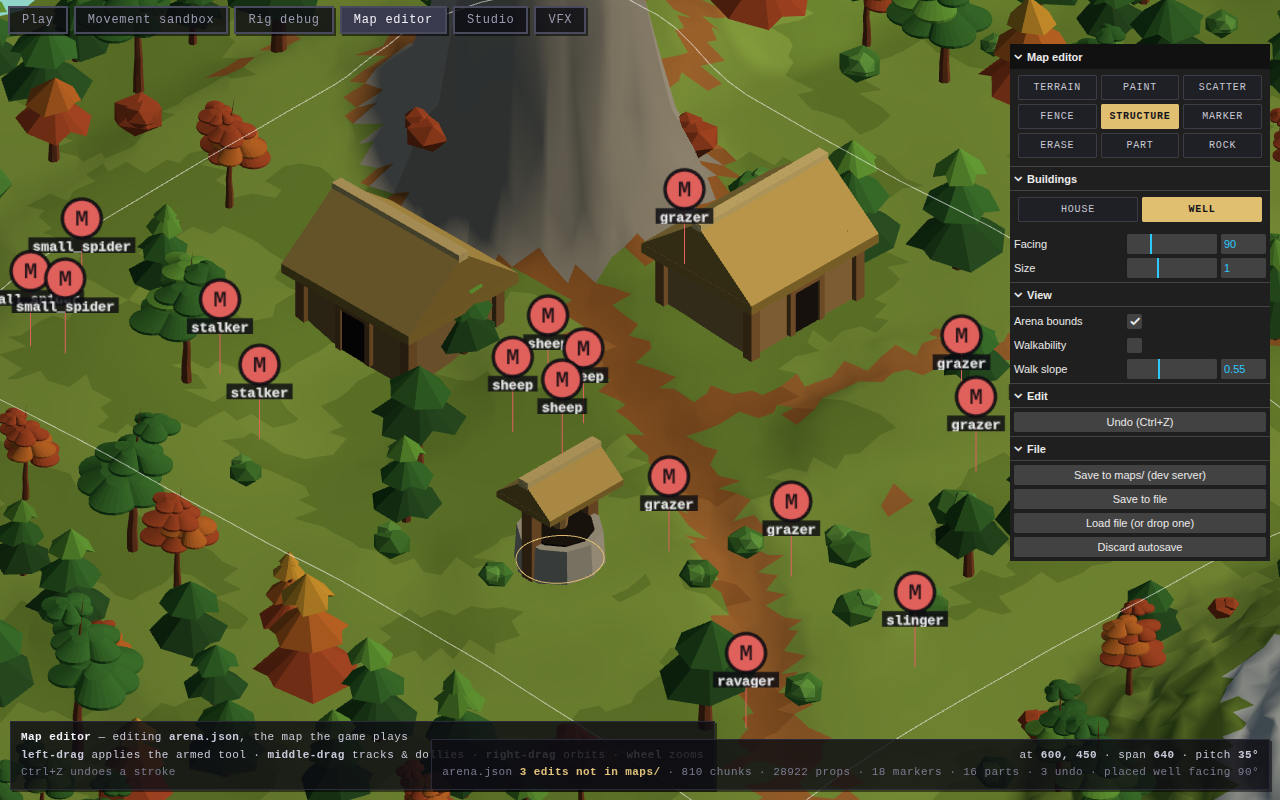
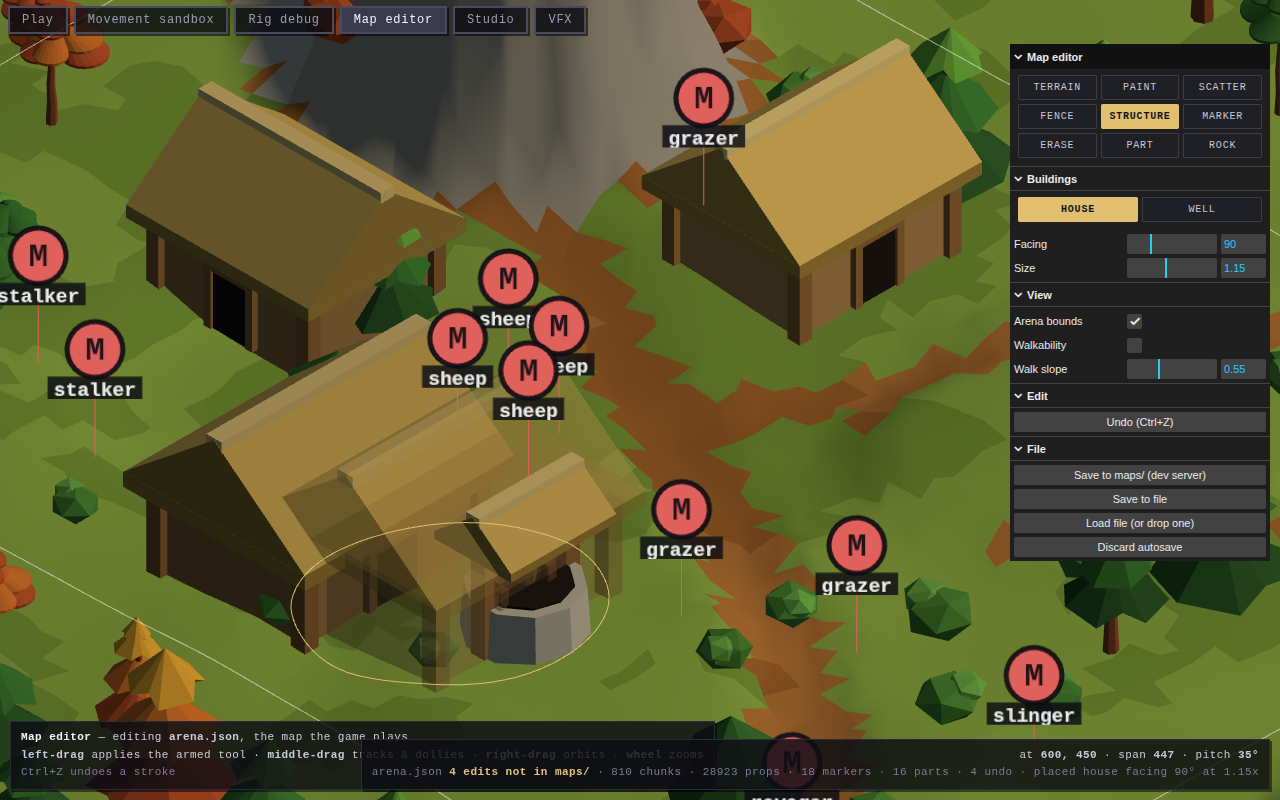
Read the preview and the drag out of the running editor
Both halves live where a saved file cannot see them: a preview is entirely
scene graph, and a drag's size only exists while the button is down. A tool
that ignored the drag and sized the building at the release would leave exactly
the same document as one that grew it under the cursor the whole way.

Two things in the probe were learned by getting them wrong. Every wait is a
poll now, because a building lands on the release and this environment paints
the editor at about five frames a second -- waited out with a constant, it read
the status line before the placement, moved the facing slider before it, and
reported three huts placed at one facing as a broken slider. And the no-ground
case is staged at the corner of a zoomed-out view: the middle stays meshed
however far you zoom, so hovering it reported a working refusal as a preview
that would not go away. Checked as a round trip, since a hidden ghost is also
what a broken ghost looks like.

diff --git a/scripts/probe-structures.ts b/scripts/probe-structures.ts
@@ -10,9 +10,15 @@
  * cannot fail a typecheck and cannot fail a headless test.
  *
  * So this drives the shipped build: opens the tab, arms the tool, presses on the
- * ground three times, and checks the *file that came out*. The file is the
+ * ground, drags one out, and checks the *file that came out*. The file is the
  * deliverable -- a building the editor draws and does not save is exactly the
  * bug spec 176 turned out to be.
+ *
+ * Spec 223 adds the half a file cannot answer. A preview lives entirely in the
+ * scene graph and a drag's size is only visible while the button is down, so
+ * both are read off `data-ghost` mid-gesture: a tool that ignored the drag and
+ * sized the building at the release would leave exactly the same document as
+ * one that grew it under the cursor the whole way.
  *
  *   npm run build && npx tsx scripts/probe-structures.ts
  *
@@ -71,6 +77,82 @@ async function waitForServer(url: string, timeoutMs = 30_000): Promise<void> {
 }
 
 const readout = async (page: Page): Promise<string> => (await page.textContent('body')) ?? '';
+
+/**
+ * What the ghost has on the scene graph, off `data-ghost` (spec 223).
+ *
+ * Published from what is *attached and visible* rather than from what the frame
+ * last asked for, so a preview built and hung on nothing, or one left up after
+ * the tool was disarmed, reads as wrong here.
+ */
+async function ghost(page: Page): Promise<string> {
+  return (await page.getAttribute('[data-ghost]', 'data-ghost')) ?? '(no readout)';
+}
+
+const ghostScale = async (page: Page): Promise<number> =>
+  Number(/scale:([\d.]+)/.exec(await ghost(page))?.[1] ?? Number.NaN);
+
+/** How many props the editor says the map holds. The one unambiguous signal
+ *  that a placement has actually been processed. */
+async function propCount(page: Page): Promise<number> {
+  return Number(/([\d,]+) props/.exec(await readout(page))?.[1]?.replace(/,/g, '') ?? Number.NaN);
+}
+
+/**
+ * Wait until the editor has actually taken the gesture.
+ *
+ * A **poll**, never a fixed wait, and the reason is measured rather than
+ * cautious: this environment paints the editor at about five frames a second
+ * under software GL, and a building now lands on the *release* (spec 223) --
+ * so half a second after the button comes up the frame that places it may not
+ * have run. Waited out with a constant, the first cut of this probe read the
+ * status line before the placement, set the facing slider before it, and
+ * reported three huts placed at one facing as a broken facing slider.
+ */
+/** Spin the wheel over the canvas, and let the ground catch up. */
+async function zoom(page: Page, notches: number, delta: number): Promise<void> {
+  await page.mouse.move(500, 400);
+  for (let i = 0; i < notches; i++) {
+    await page.mouse.wheel(0, delta);
+    await page.waitForTimeout(120);
+  }
+  await page.waitForTimeout(2500);
+}
+
+/**
+ * Poll `data-ghost` over a point until it says what is wanted, or give up.
+ *
+ * Which point matters, and the first cut of this got it wrong: it hovered the
+ * middle of the view, where ground stays meshed however far you zoom out --
+ * the keep window grows around what was already there -- and reported a
+ * working refusal as a preview that would not go away. Unmeshed ground is at
+ * the *corners*, which is where a zoomed-out view has ground it has not caught
+ * up with yet.
+ */
+async function ghostBecomes(page: Page, want: 'hidden' | 'drawn', at: readonly [number, number]): Promise<boolean> {
+  for (let i = 0; i < 60; i++) {
+    // Nudged by a pixel each time, because the preview is placed from a pointer
+    // event as well as from the frame: parked perfectly still, a poll can read
+    // the same stale frame sixty times.
+    await page.mouse.move(at[0] + (i % 2), at[1]);
+    await page.waitForTimeout(400);
+    const now = await ghost(page);
+    if (want === 'hidden' ? now === 'hidden' : /meshes:[1-9]/.test(now)) return true;
+  }
+  return false;
+}
+
+/** The far corner of the canvas, and the middle of it. */
+const CORNER: readonly [number, number] = [60, 110];
+const MIDDLE: readonly [number, number] = [480, 400];
+
+async function settled(page: Page, was: number): Promise<boolean> {
+  for (let i = 0; i < 80; i++) {
+    if ((await propCount(page)) > was) return true;
+    await page.waitForTimeout(250);
+  }
+  return false;
+}
 
 /**
  * One row of the panel, by the folder it is in and the label it shows.
@@ -150,13 +232,40 @@ async function openEditor(page: Page): Promise<void> {
   await page.waitForTimeout(3000);
 }
 
-/** One press on the ground, which is the whole of placing a building. */
-async function clickGround(page: Page, x: number, y: number): Promise<void> {
+/** One press on the ground: a building at whatever size the panel says. */
+async function clickGround(page: Page, x: number, y: number): Promise<boolean> {
+  const was = await propCount(page);
   await page.mouse.move(x, y);
   await page.mouse.down();
   await page.waitForTimeout(150);
   await page.mouse.up();
-  await page.waitForTimeout(500);
+  return settled(page, was);
+}
+
+/**
+ * Press, drag out, release -- and report the size the ghost had reached at the
+ * far end, before the button came up.
+ *
+ * Read *during* the drag rather than after it, because that is the half no
+ * saved file can answer: a tool that ignored the drag and sized the building at
+ * the release would leave exactly the same document as one that grew it under
+ * the cursor the whole way.
+ */
+async function dragOut(page: Page, x: number, y: number, dx: number, dy: number): Promise<number> {
+  const was = await propCount(page);
+  await page.mouse.move(x, y);
+  await page.mouse.down();
+  await page.waitForTimeout(200);
+  // In steps, so the page gets pointermove events rather than one teleport --
+  // at a few frames a second a single jump can land between two of them.
+  await page.mouse.move(x + dx, y + dy, { steps: 8 });
+  // Long enough for a frame to have drawn the ghost at the far end of the drag,
+  // which is the one thing that has to be read while the button is still down.
+  await page.waitForTimeout(1200);
+  const reached = await ghostScale(page);
+  await page.mouse.up();
+  await settled(page, was);
+  return reached;
 }
 
 /** Press Save to file and hand back what the browser downloaded. */
@@ -224,8 +333,8 @@ async function main(): Promise<void> {
     // Two huts at different facings, so the one thing a slider could get wrong
     // -- turning the prop and not the panel, or the other way about -- shows up
     // in the file rather than only on screen.
-    await clickGround(page, 400, 330);
-    check('a press says what it placed', /placed house facing 0/.test(await readout(page)), await placed(page));
+    check('a press puts a building down', await clickGround(page, 400, 330), await placed(page));
+    check('and says what it placed', /placed house facing 0/.test(await readout(page)), await placed(page));
 
     await setNumber(page, 'Buildings', 'Facing', 90);
     check(
@@ -233,7 +342,7 @@ async function main(): Promise<void> {
       (await panelRow(page, 'Buildings', 'Facing'))?.value === '90',
       'Facing = 90',
     );
-    await clickGround(page, 760, 300);
+    check('a second press lands too', await clickGround(page, 760, 300), await placed(page));
     check('and says the facing it placed at', /placed house facing 90/.test(await readout(page)), await placed(page));
 
     await page.getByRole('button', { name: 'well', exact: true }).click();
@@ -241,8 +350,67 @@ async function main(): Promise<void> {
     // Well clear of both huts: the first cut put the well where the second
     // hut's roof came down over it, and a prop hidden behind another prop is a
     // screenshot that says nothing about either.
-    await clickGround(page, 560, 560);
-    check('the well places too', /placed well/.test(await readout(page)), await placed(page));
+    check('the well places too', await clickGround(page, 560, 560), await placed(page));
+    check('and says so', /placed well/.test(await readout(page)), await placed(page));
+
+    // --- the preview (spec 223) --------------------------------------------
+    await page.mouse.move(430, 520);
+    await page.waitForTimeout(500);
+    check(
+      'the ghost stands under the cursor before anything is pressed',
+      /^well meshes:[1-9]/.test(await ghost(page)),
+      await ghost(page),
+    );
+    await page.getByRole('button', { name: 'house', exact: true }).click();
+    await page.waitForTimeout(400);
+    await page.mouse.move(440, 525);
+    await page.waitForTimeout(500);
+    check('switching kind switches what is previewed', /^house meshes:[1-9]/.test(await ghost(page)), await ghost(page));
+
+    // The preview going away *is* the refusal, seen before the click rather than
+    // as a status line after it. Staged by zooming out past what the editor has
+    // meshed: `scene.pick` finds nothing, which is exactly the case spec 212
+    // says a tool must go on refusing rather than act on at the flat plane's
+    // height. Checked as a **round trip** -- gone, then back -- because "the
+    // ghost is hidden" on its own is also what a broken ghost looks like.
+    const span = /span (\d+)/.exec(await readout(page))?.[1] ?? '?';
+    await zoom(page, 6, 400);
+    check(
+      'the preview goes away where there is no ground under the cursor',
+      await ghostBecomes(page, 'hidden', CORNER),
+      `span ${span} -> ${/span (\d+)/.exec(await readout(page))?.[1] ?? '?'}: ${await ghost(page)}`,
+    );
+    await zoom(page, 6, -400);
+    check('and comes back when there is', await ghostBecomes(page, 'drawn', MIDDLE), await ghost(page));
+
+    await page.getByRole('button', { name: 'marker', exact: true }).click();
+    await page.waitForTimeout(400);
+    await page.mouse.move(440, 525);
+    await page.waitForTimeout(500);
+    check('and away entirely when the tool is not armed', (await ghost(page)) === 'hidden', await ghost(page));
+    await page.getByRole('button', { name: 'structure', exact: true }).click();
+    await page.waitForTimeout(400);
+
+    // --- the drag (spec 223) ------------------------------------------------
+    const sizeBefore = Number((await panelRow(page, 'Buildings', 'Size'))?.value ?? Number.NaN);
+    const reached = await dragOut(page, 300, 560, 150, 40);
+    check(
+      'dragging out grows the preview past the size the panel was set to',
+      Number.isFinite(reached) && reached > sizeBefore,
+      `${sizeBefore} -> ${reached.toFixed(2)} mid-drag`,
+    );
+    const sizeAfter = Number((await panelRow(page, 'Buildings', 'Size'))?.value ?? Number.NaN);
+    const shown = (await panelRow(page, 'Buildings', 'Size'))?.value ?? '';
+    check(
+      'and the panel is told, so the next building is the size of the last',
+      Math.abs(sizeAfter - reached) < 1e-9,
+      `Size = ${shown}`,
+    );
+    check(
+      'as a number somebody could also have set the slider to',
+      /^\d+(\.\d{1,2})?$/.test(shown),
+      shown,
+    );
 
     await page.screenshot({ path: join(outDir, 'editor-structures.png') });
 
@@ -251,19 +419,32 @@ async function main(): Promise<void> {
     const after = structuresIn(await save(page));
     const houses = after.filter((p) => p.species === 'house');
     const wells = after.filter((p) => p.species === 'well');
-    check('the saved map has both huts and the well', houses.length === 2 && wells.length === 1, `${houses.length} houses, ${wells.length} wells`);
+    check(
+      'the saved map has every hut and the well',
+      houses.length === 3 && wells.length === 1,
+      `${houses.length} houses, ${wells.length} wells`,
+    );
+    const dragged = houses.filter((h) => Math.abs((h.scale ?? 1) - reached) < 0.06);
+    check(
+      'the dragged hut was saved at the size the drag reached',
+      dragged.length === 1,
+      `${dragged.length} at ${reached.toFixed(2)}x of ${houses.map((h) => (h.scale ?? 1).toFixed(2)).join(', ')}`,
+    );
 
     const turned = houses.filter((h) => Math.abs((h.rotation ?? 0) - Math.PI / 2) < 0.01);
     const square = houses.filter((h) => Math.abs(h.rotation ?? 0) < 0.01);
     check(
       'each hut was saved at the facing it was placed at',
-      turned.length === 1 && square.length === 1,
+      turned.length === 2 && square.length === 1,
       `${square.length} at 0, ${turned.length} at 90 degrees`,
+    );
+    const spread = houses.flatMap((a, i) =>
+      houses.slice(i + 1).map((b) => Math.hypot(a.x - b.x, a.z - b.z)),
     );
     check(
       'the buildings landed apart, where they were pressed',
-      houses.length === 2 && Math.hypot((houses[0]?.x ?? 0) - (houses[1]?.x ?? 0), (houses[0]?.z ?? 0) - (houses[1]?.z ?? 0)) > 50,
-      'not stacked',
+      spread.length > 0 && Math.min(...spread) > 50,
+      `closest pair ${Math.round(Math.min(...spread))} units`,
     );
 
     check('the page logged no errors', problems.length === 0, problems.slice(0, 3).join(' | '));

diff --git a/CLAUDE.md b/CLAUDE.md
@@ -1416,6 +1416,48 @@ src/render/iso3d/editor/  the map editor tab (specs 049-052, 084). Renders only
                  ring is the building's own `footprintRadius`, so what the ring
                  draws and what the collider blocks are the same circle rather
                  than two numbers that agree until one is edited.
+                 structure-ghost.ts is the building itself, drawn before it is
+                 put down (spec 223), and it is here rather than in `cursor.ts`
+                 because a footprint circle cannot say which way a hut faces or
+                 how far its eaves reach -- so laying out a village with the ring
+                 alone was place, look, undo, adjust, place again. Three rules.
+                 **It is the thing, not a stand-in**: the geometry comes from
+                 `buildPropField`, the same function every prop in the map goes
+                 through, so a box roughed out for the preview cannot drift from
+                 the hut it is previewing. **Following the cursor is a transform,
+                 never a rebuild** -- a prop's placement is exactly
+                 `T(x, ground, z) . R(yaw) . S(scale)` over its parts' local
+                 offsets, which is what `buildRegionInstances` composes term for
+                 term, so one prefab built at the origin and moved is the same
+                 geometry for the cost of a matrix. That equivalence is asserted
+                 vertex for vertex rather than reasoned about, and it is the one
+                 test in this directory allowed to import three.js: get the
+                 transform order wrong and it still looks like a hut, just one
+                 somewhere else. And **the translucency is safe only because
+                 materials are not shared** -- `props.ts` makes one per batch, so
+                 a ghost's are its own; the same edit against a shared material
+                 would turn every tree in the world see-through, in the editor,
+                 for whoever happened to arm this tool.
+                 The gesture moved with it: a building lands on the **release**,
+                 and the drag between the two is its size, because every other
+                 radius here is dragged out under the cursor and
+                 `structureScale` was a number set beforehand in units of
+                 nothing. The drag distance *is* the footprint radius, clamped
+                 and stepped by the same three constants the panel's slider is
+                 built from -- so the two controls cannot disagree about which
+                 sizes exist, and a drag cannot write a number into that slider
+                 nobody could have set it to. A press with no drag still places
+                 at the panel's size, so a plain click is what it always was.
+                 Two numbers in it are derived rather than chosen, and both
+                 exist to take a step out of the gesture: sizing engages at the
+                 *smallest ring*, so the first size a drag can ever produce is
+                 the minimum and it climbs continuously from there -- a threshold
+                 picked independently would jump from whatever the panel said
+                 straight to the minimum, which reads as the building collapsing
+                 rather than as a size being set; and the step is a **count of
+                 steps to the unit** rather than a width, because
+                 `Math.round(r / 0.05) * 0.05` is `1.1500000000000001` and that
+                 is the number the panel would then display.
                  `npx tsx scripts/probe-structures.ts` is the half no headless
                  test can reach, and it is the reason any of the above is known
                  to be wired to anything: a ninth entry in a mode array cannot
@@ -1432,7 +1474,24 @@ src/render/iso3d/editor/  the map editor tab (specs 049-052, 084). Renders only
                  about the wrong tool, and reported a working panel as a hidden
                  one. A row is found by its folder and its label, and a folder in
                  this build is itself a `.lil-gui` with its own `.lil-title`;
-                 there is no `.lil-folder` to ask for.
+                 there is no `.lil-folder` to ask for. Since spec 223 it also
+                 reads `data-ghost` mid-gesture, which is the half a saved file
+                 cannot answer: a tool that ignored the drag and sized the
+                 building at the release would leave exactly the same document
+                 as one that grew it under the cursor the whole way. Two things
+                 in that half were learned by getting them wrong. Every wait is
+                 a **poll**, because a building now lands on the release and this
+                 environment paints the editor at about five frames a second --
+                 waited out with a constant, the probe read the status line
+                 before the placement, moved the facing slider before it, and
+                 reported three huts placed at one facing as a broken slider.
+                 And the "no ground under the cursor" case is staged at the
+                 **corner** of a zoomed-out view: the middle stays meshed however
+                 far you zoom, because the keep window grows around what was
+                 already there, so hovering it reported a working refusal as a
+                 preview that would not go away. It is checked as a round trip --
+                 gone, then back -- since "the ghost is hidden" on its own is
+                 also what a broken ghost looks like.
                  paint.ts is the material brush (spec 179), and it is beside
                  brush.ts rather than inside it because brush.ts is what a stroke
                  does to the *height* array and every one of its four tools reads
